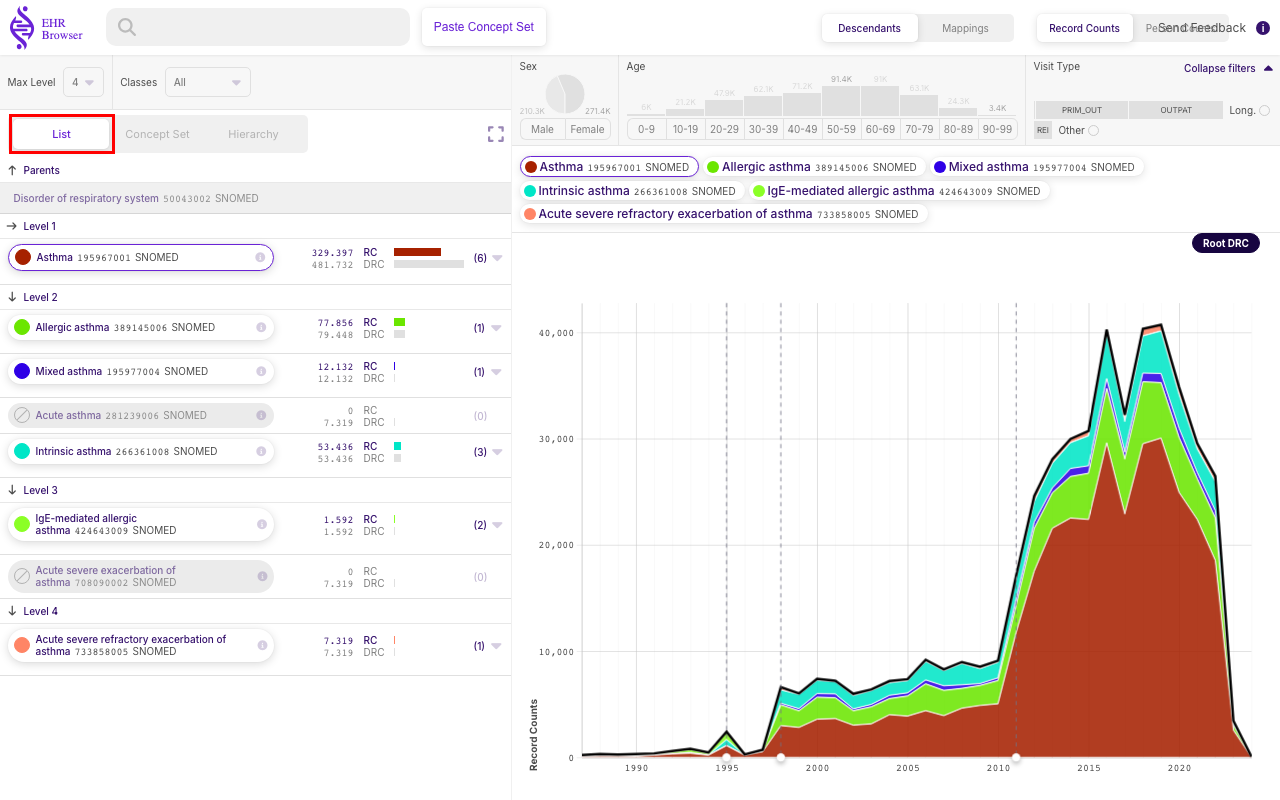
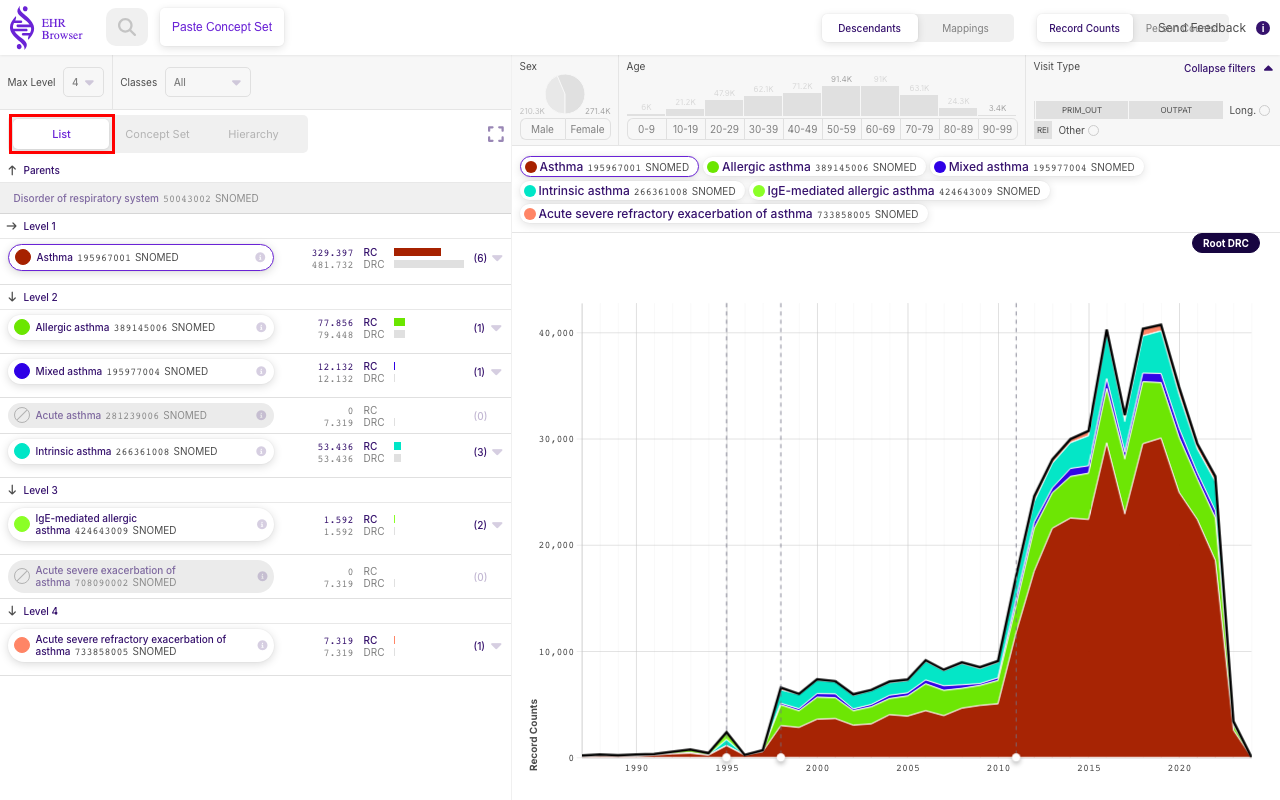
docs(autodocu): rebuild EHRBrowser concept-exploration docs
Regenerate section 1 documentation and screenshots from a passing test
run, refresh the root use-cases index, and set the Playwright config
baseURL/viewport from the Outline # Run section.

Changed region(s): [[0.4688, 0.4062, 0.9688, 0.9688], [0.3438, 0.0312, 0.4062, 0.0625], [0.1562, 0.0312, 0.2188, 0.0625]]

diff --git a/AUTODOCU/Tests/playwright/playwright.config.ts b/AUTODOCU/Tests/playwright/playwright.config.ts
@@ -1,8 +1,11 @@
 import { defineConfig } from '@playwright/test';
 
 // This config lives in AUTODOCU/Tests/playwright, its own npm project.
-// Run tests from this folder: `cd AUTODOCU/Tests/playwright && npx playwright test`.
+// Run tests from this folder: `cd AUTODOCU/Tests/playwright && npm test`.
 // The specs live one level up, in AUTODOCU/Tests/<section>/, so testDir is '..'.
+//
+// `build` overwrites `baseURL` and `viewport` below from the Outline `# Run`
+// section — the values here are placeholders.
 export default defineConfig({
   testDir: '..',
   // Only pick up the per-section *.spec.ts files; never descend into this
@@ -12,8 +15,8 @@ export default defineConfig({
   fullyParallel: false,
   reporter: [['list']],
   use: {
-    baseURL: 'http://localhost:8563/', // <-- from Outline # Run
-    viewport: { width: 1280, height: 800 }, // <-- window size from # Run (default 1280x800)
+    baseURL: 'http://localhost:8563/', // <-- set by build from Outline # Run
+    viewport: { width: 1280, height: 800 }, // <-- set by build from # Run (default 1280x800)
     headless: true,
   },
 });

diff --git a/AUTODOCU/Documentation/1.Exploring_a_single_standard_concept/README.md b/AUTODOCU/Documentation/1.Exploring_a_single_standard_concept/README.md
@@ -4,34 +4,36 @@ The EHR Browser lets you load any standard concept from the vocabulary and immed
 
 ## Searching for a concept
 
-Type into the **Search concept** field at the top of the page to look up a concept by name. As you type "Asthma", the browser shows a live list of matching concepts, each with its vocabulary, code, and id. The highlighted row below is **Asthma — SNOMED** (`Code: 195967001`, `Id: 317009`), the standard concept we want to explore. Each result also offers a **Concept set** shortcut on the right.
+Type a search string into the **Search concept** field at the top of the page. As you type, the browser lists every matching concept across the available vocabularies — here searching for *Asthma* returns matches in ICPC, ICD9fi, ICD10 and SNOMED. Each row shows the concept name, its vocabulary, its source **Code**, and its concept **Id**, along with a **Concept set** button for adding it to a set.
 
-![Searching for the Asthma concept](screenshots/01-searching-for-a-concept.png)
+To load the standard SNOMED concept, hover over **Asthma — SNOMED** (Code `195967001`, Id `317009`, highlighted below) and click it.
 
-Clicking **Asthma SNOMED** loads that concept's page.
+![Searching for the Asthma SNOMED concept](screenshots/01-searching-for-a-concept.png)
 
 ## The concept view
 
+Clicking the concept opens its full view, which is organized into three areas:
+
 ![The Asthma concept view](screenshots/02-the-concept-view.png)
 
-The concept page is organized into three areas:
-
-- **Top bar** — controls that affect the whole page. **Descendants / Mappings** switches between showing the concept's descendant hierarchy and its non-standard mappings, and **Record Counts / Person Counts** switches which count is displayed throughout the page.
-- **Left area** — the counts distribution across the vocabulary hierarchy. Each descendant is listed under its level with its Record Count (RC) and Descendant Record Count (DRC).
-- **Right area** — the counts distribution across **Sex**, **Age**, **Visit Type**, and **Time**.
+- **Top bar** — controls that affect the whole page. From here you can change the current concept (the search icon and **Paste Concept Set**), toggle between **Descendants** and **Mappings** to switch between the standard descendant hierarchy and non-standard mapped source concepts, and toggle between **Record Counts** and **Person Counts** to change what the counts measure.
+- **Left area** — the concept hierarchy. Each descendant is listed with its record-count distribution across the hierarchy, its RC/DRC values, a small inline bar, and the number of children.
+- **Right area** — the count distributions broken down across **Sex** (a Male/Female pie), **Age** (a histogram over 10-year age bands), **Visit Type**, and **Time** (a stacked area chart of counts by year).
 
 ### Hierarchy view
 
-The left area offers three ways to view the hierarchy, selected with the toggle highlighted below:
+The left area offers three ways to view the concept's relatives, selected with the toggle at the top:
 
-- **List** — a flat, level-by-level list of the descendant concepts.
-- **Concept Set** — the concepts framed as an editable concept set.
-- **Hierarchy** — the graph/tree structure of the descendants.
+- **List** — a flat list of the concept and its descendants, grouped by hierarchy level (Parents, Level 1, Level 2, …), each row showing its counts.
+- **Concept Set** — the concepts currently collected into a set.
+- **Hierarchy** — the concepts arranged as their graph hierarchy.
 
-![The List / Concept Set / Hierarchy selector](screenshots/03-hierarchy-view.png)
+The **List** selector is highlighted below.
+
+![The List selector in the hierarchy view](screenshots/03-hierarchy-view.png)
 
 ### Time view
 
-The right area's time plot shows how the record counts accumulate over the years. The legend above the chart lists the colored concepts included in the plot, and each colored band in the stacked area chart corresponds to one of those concepts, so you can read both the total trend and each descendant's contribution over time.
+The time chart plots the selected concepts' **Record Counts** over the years (roughly 1990–2020 here) as a stacked area chart, so you can see both the overall trend and how each descendant contributes. Above it, the legend lists the colored concepts included in the plot — Asthma, Allergic asthma, Mixed asthma, Intrinsic asthma, IgE-mediated allergic asthma, and Acute severe refractory exacerbation of asthma — each color matching its band in the chart. The chart and its legend are highlighted below.
 
-![The time plot with its colored-concept legend](screenshots/04-time-view.png)
+![The time chart with its concept legend](screenshots/04-time-view.png)

diff --git a/AUTODOCU/Documentation/README.md b/AUTODOCU/Documentation/README.md
@@ -4,4 +4,4 @@ EHR Browser connects to an OMOP-CDM instance and lets you browse the vocabulary 
 
 ## Use cases
 
-- [**Exploring a single Standard Concept**](./1.Exploring_a_single_standard_concept/README.md): How to search for a concept, navigate the List / Concept Set / Hierarchy views, and interpret the Record Counts charts across the hierarchy, sex, age, visit type, and time.
+- [Exploring a single Standard Concept](./1.Exploring_a_single_standard_concept/README.md): How to search for a concept, read the concept view, switch between the List/Concept Set/Hierarchy views, and interpret the record-count time chart.
